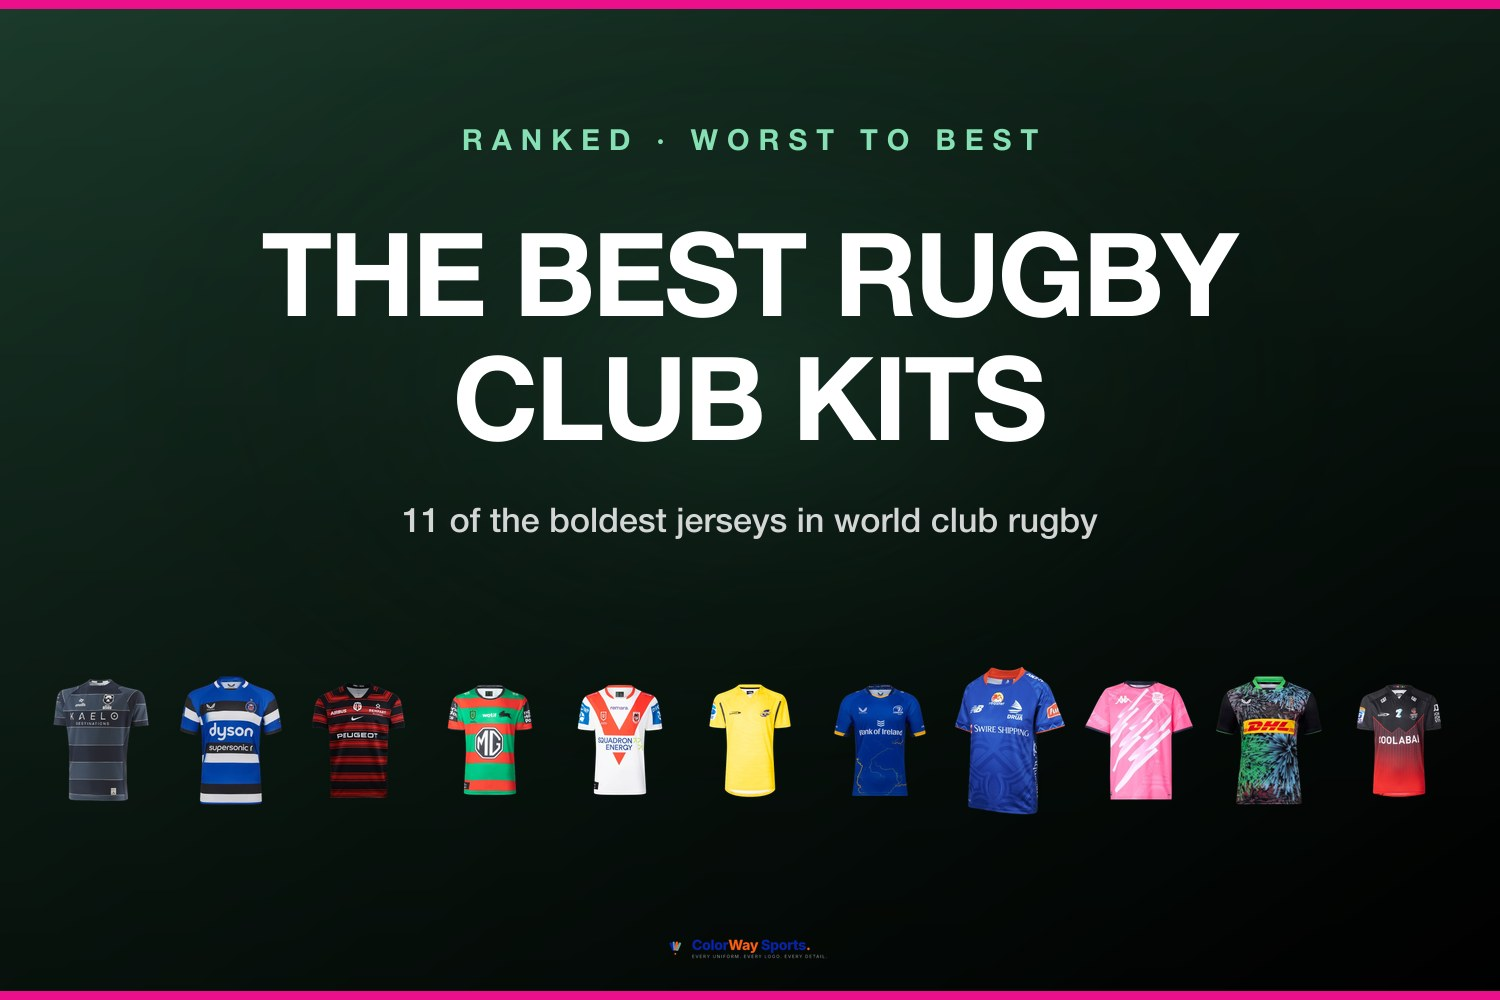
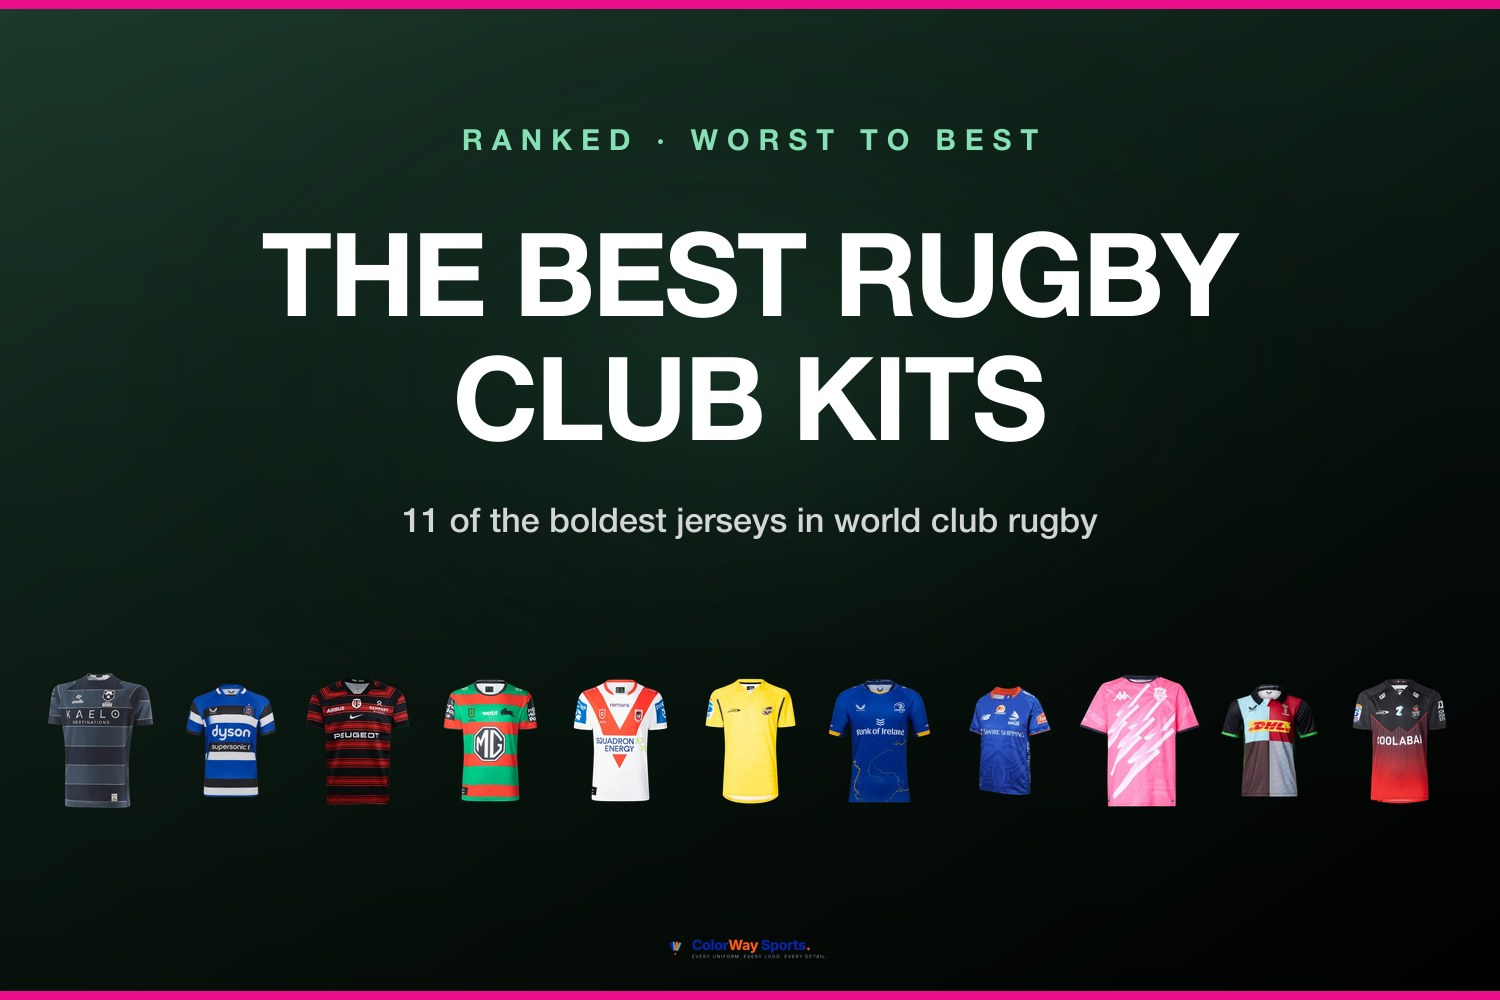
Publish rugby club kits Top 11 post; swap Harlequins to the classic quarters, uniform-size cover jerseys

Changed region(s): [[0.0307, 0.651, 0.9813, 0.837]]

diff --git a/content/posts/rugby-club-kits-ranked.md b/content/posts/rugby-club-kits-ranked.md
@@ -2,7 +2,7 @@
 title: "The Best Rugby Club Kits, Ranked: 11 of the Boldest Jerseys in World Rugby"
 category: Rugby
 date: "2026-06-25"
-excerpt: "From the Harlequins fireworks shirt and Stade Français's shocking pink to Toulouse's red-and-black and Bristol's classic navy, club rugby has some of the boldest kit design in all of sport. Here's our worst-to-best ranking of 11 of the best club jerseys across the Top 14, Premiership, URC, Super Rugby and NRL."
+excerpt: "From the Harlequins quarters and Stade Français's shocking pink to Toulouse's red-and-black and Bristol's classic navy, club rugby has some of the boldest kit design in all of sport. Here's our worst-to-best ranking of 11 of the best club jerseys across the Top 14, Premiership, URC, Super Rugby and NRL."
 gradient: "linear-gradient(135deg, #1B3A2B 0%, #0a0a0a 100%)"
 coverImage: "/images/posts/rugby-club-kits/cover.jpg"
 coverImagePosition: "center center"
@@ -11,9 +11,9 @@ league: rugby
 teams: []
 ---
 
-<img src="/images/posts/rugby-club-kits/cover.jpg" alt="The best rugby club kits ranked, a lineup of 11 club jerseys including Bristol Bears navy, Bath hoops, Toulouse red and black, the South Sydney Rabbitohs, the St George Red V, Hurricanes yellow, Leinster blue, Fijian Drua, Stade Français pink, the Harlequins fireworks shirt and the Crusaders, across the Top 14, Premiership, URC, Super Rugby and NRL" style="width: 120%; max-width: 120%; margin-left: -10%; border-radius: 10px; margin-bottom: 1.85em;" />
+<img src="/images/posts/rugby-club-kits/cover.jpg" alt="The best rugby club kits ranked, a lineup of 11 club jerseys including Bristol Bears navy, Bath hoops, Toulouse red and black, the South Sydney Rabbitohs, the St George Red V, Hurricanes yellow, Leinster blue, Fijian Drua, Stade Français pink, the Harlequins quarters and the Crusaders, across the Top 14, Premiership, URC, Super Rugby and NRL" style="width: 120%; max-width: 120%; margin-left: -10%; border-radius: 10px; margin-bottom: 1.85em;" />
 
-Club rugby is where the sport's best kit design actually lives. International jerseys lean on a century of tradition and rarely change, but the clubs — across France's Top 14, England's Gallagher Premiership, the URC, Super Rugby Pacific and Australia's NRL — are where you find shocking pink, exploding fireworks, century-old hoops and graphic devices so good they've become shorthand for the club itself.
+Club rugby is where the sport's best kit design actually lives. International jerseys lean on a century of tradition and rarely change, but the clubs — across France's Top 14, England's Gallagher Premiership, the URC, Super Rugby Pacific and Australia's NRL — are where you find shocking pink, century-old quartered shirts, hooped heritage and graphic devices so good they've become shorthand for the club itself.
 
 This is ColorWay's worst-to-best ranking of **11 of the best club kits in world rugby**, judged on color, pattern, contrast and how unmistakable each shirt is — across both codes, union and league. We're not ranking trophies; we're ranking the shirts. Here's the countdown to our favorite club kit in rugby.
 
@@ -37,13 +37,13 @@ We start in Christchurch with the most successful franchise in Super Rugby histo
 <div style="background: linear-gradient(135deg, #241a33 0%, #0d0d0d 100%); border-radius: 16px; padding: 22px 22px 26px; margin: 1.75em 0 0.75em; text-align: center; position: relative;">
   <span style="position: absolute; top: 16px; left: 22px; font-size: 2.1em; font-weight: 900; color: rgba(255,255,255,0.5); line-height: 1;">#10</span>
   <p style="color: #fff; font-weight: 900; font-size: 1.25em; margin: 8px 0 2px;">Harlequins</p>
-  <p style="color: rgba(255,255,255,0.75); font-size: 0.72em; letter-spacing: 2px; text-transform: uppercase; margin: 0 0 16px; font-weight: 700;">Gallagher Premiership · Fireworks Special</p>
+  <p style="color: rgba(255,255,255,0.75); font-size: 0.72em; letter-spacing: 2px; text-transform: uppercase; margin: 0 0 16px; font-weight: 700;">Gallagher Premiership · The Quarters</p>
   <div style="background: #fff; border-radius: 12px; padding: 10px; display: inline-block; max-width: 92%;">
-    <img src="/images/posts/rugby-club-kits/harlequins.jpg" alt="Harlequins special-edition jersey — exploding fireworks pattern in green, blue and pink on black with the DHL sponsor bar" style="max-height: 320px; max-width: 100%; border-radius: 8px; display: block;" />
+    <img src="/images/posts/rugby-club-kits/harlequins.jpg" alt="Harlequins Gallagher Premiership home jersey — the famous quartered shirt in light blue, maroon, grey and black with green sleeves and the DHL sponsor bar" style="max-height: 320px; max-width: 100%; border-radius: 8px; display: block;" />
   </div>
 </div>
 
-Harlequins are best known for their roughly 150-year-old quartered shirt — but this is the club at its loudest: a riot of exploding fireworks in green, blue and pink across a black base, finished with the giant red-and-yellow DHL bar. It's a genuine love-it-or-hate-it kit — gloriously over-the-top up close, a little chaotic from distance. Full marks for nerve; it's easily the most divisive shirt here.
+The most distinctive patterned shirt in rugby, full stop. The quartered design — light blue, maroon, grey and black panels with green-and-black sleeves and the bold DHL bar across the chest — is lifted straight from the harlequin jester the club is named after, and the basic silhouette is roughly 150 years old. Nothing else in the sport looks remotely like it. On a list this stacked it lands at #10, but few kits anywhere carry more history.
 
 ## 9. Stade Français Paris
 
@@ -173,7 +173,7 @@ And our best club kit in rugby. Bristol's deep navy shirt proves that the boldes
 7. **Leinster** — URC · Leinster blue
 8. **Fijian Drua** — Super Rugby · royal blue &amp; masi patterning
 9. **Stade Français Paris** — Top 14 · the pink
-10. **Harlequins** — Premiership · fireworks special
+10. **Harlequins** — Premiership · the quarters
 11. **Crusaders** — Super Rugby · black &amp; red
 
 ## Frequently Asked Questions
@@ -185,7 +185,7 @@ Stade Français Paris's pink jersey is the most famous club kit in world rugby. 
 Then-owner Max Guazzini introduced pink in 2005 as a marketing masterstroke and a provocation, aiming to break rugby's conservative image and broaden the club's appeal. It worked: the kit sold in huge numbers and made Stade Français one of the most recognizable clubs in the sport.
 
 **Which rugby club has the quartered jersey?**
-Harlequins, of the English Gallagher Premiership, are famous for their quartered shirt — magenta, light blue, white and dark panels with green-and-black sleeves, a design roughly 150 years old. The club also runs bold special-edition kits, like the fireworks shirt shown above.
+Harlequins, of the English Gallagher Premiership, are famous for their quartered shirt — light blue, maroon, grey and black panels with green-and-black sleeves and a DHL sponsor bar, a roughly 150-year-old design shown above. Nothing else in the sport looks quite like it.
 
 **What is the St George Illawarra "Red V"?**
 The Red V is the bold scarlet "V" that sweeps from the shoulders to a point on the chest of the St George Illawarra Dragons' white NRL jersey. Dating to 1945, it's one of the most recognizable jerseys in Australian sport and has become the club's nickname.
